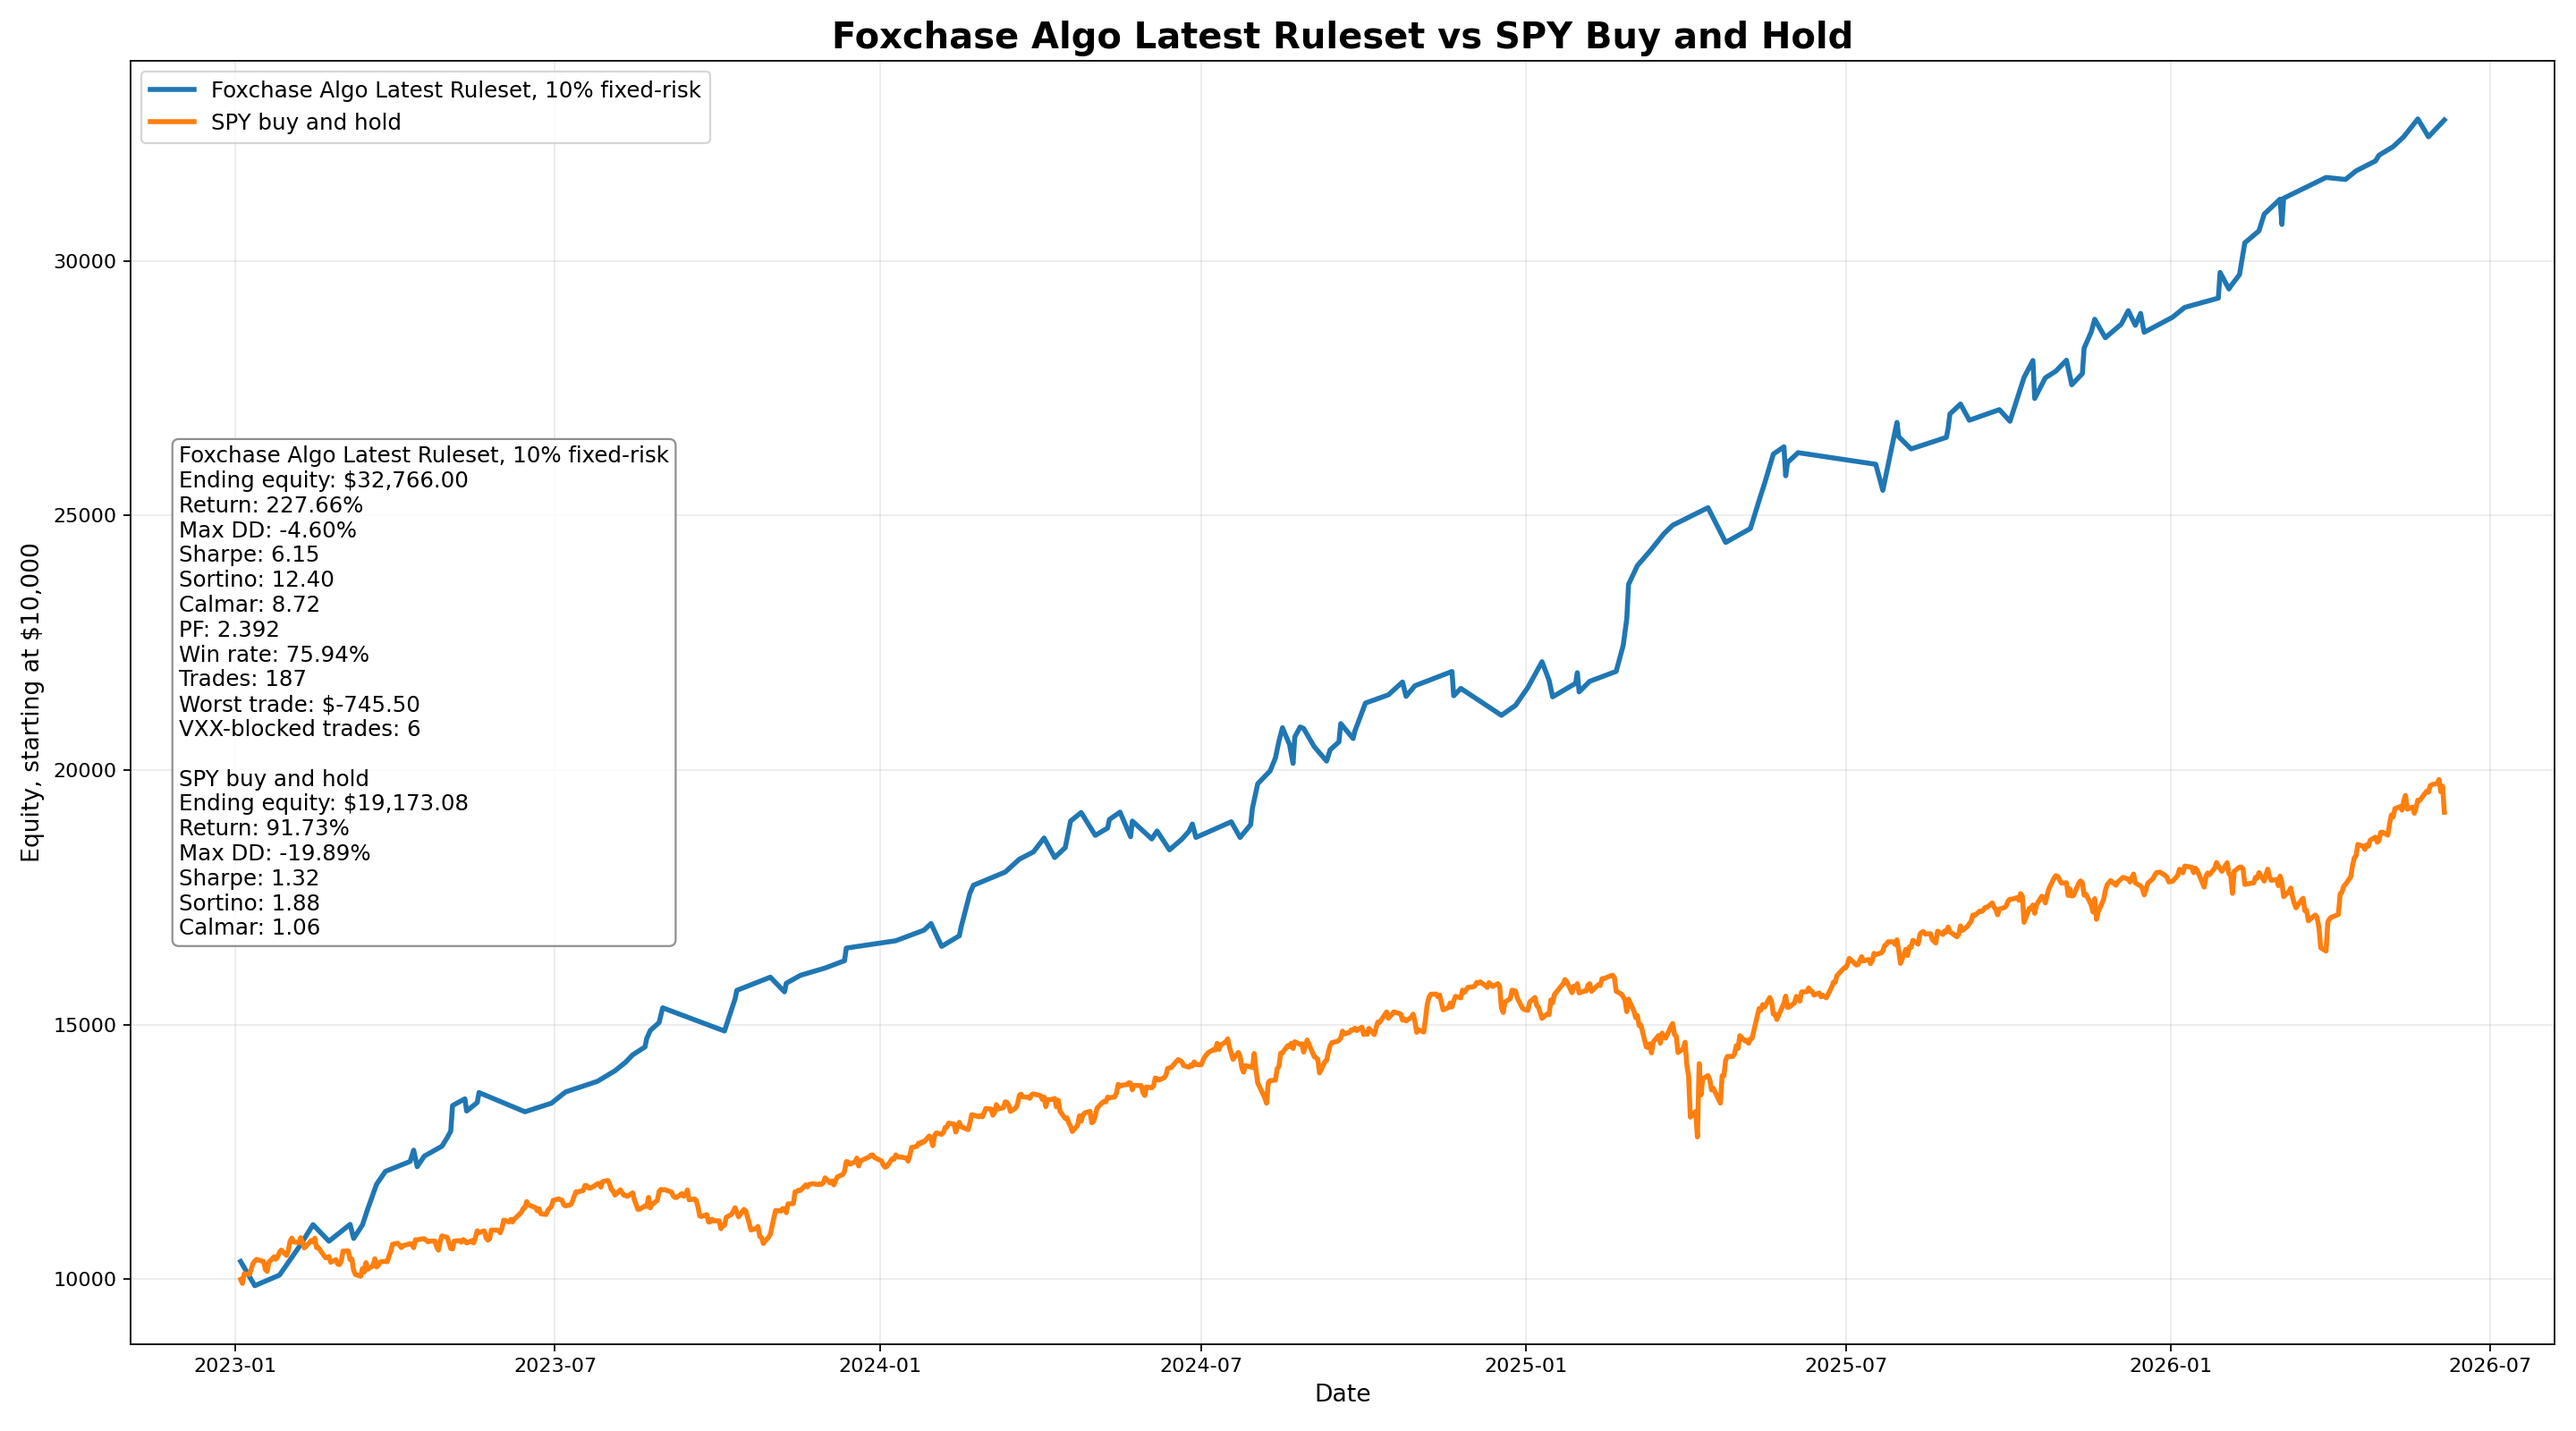
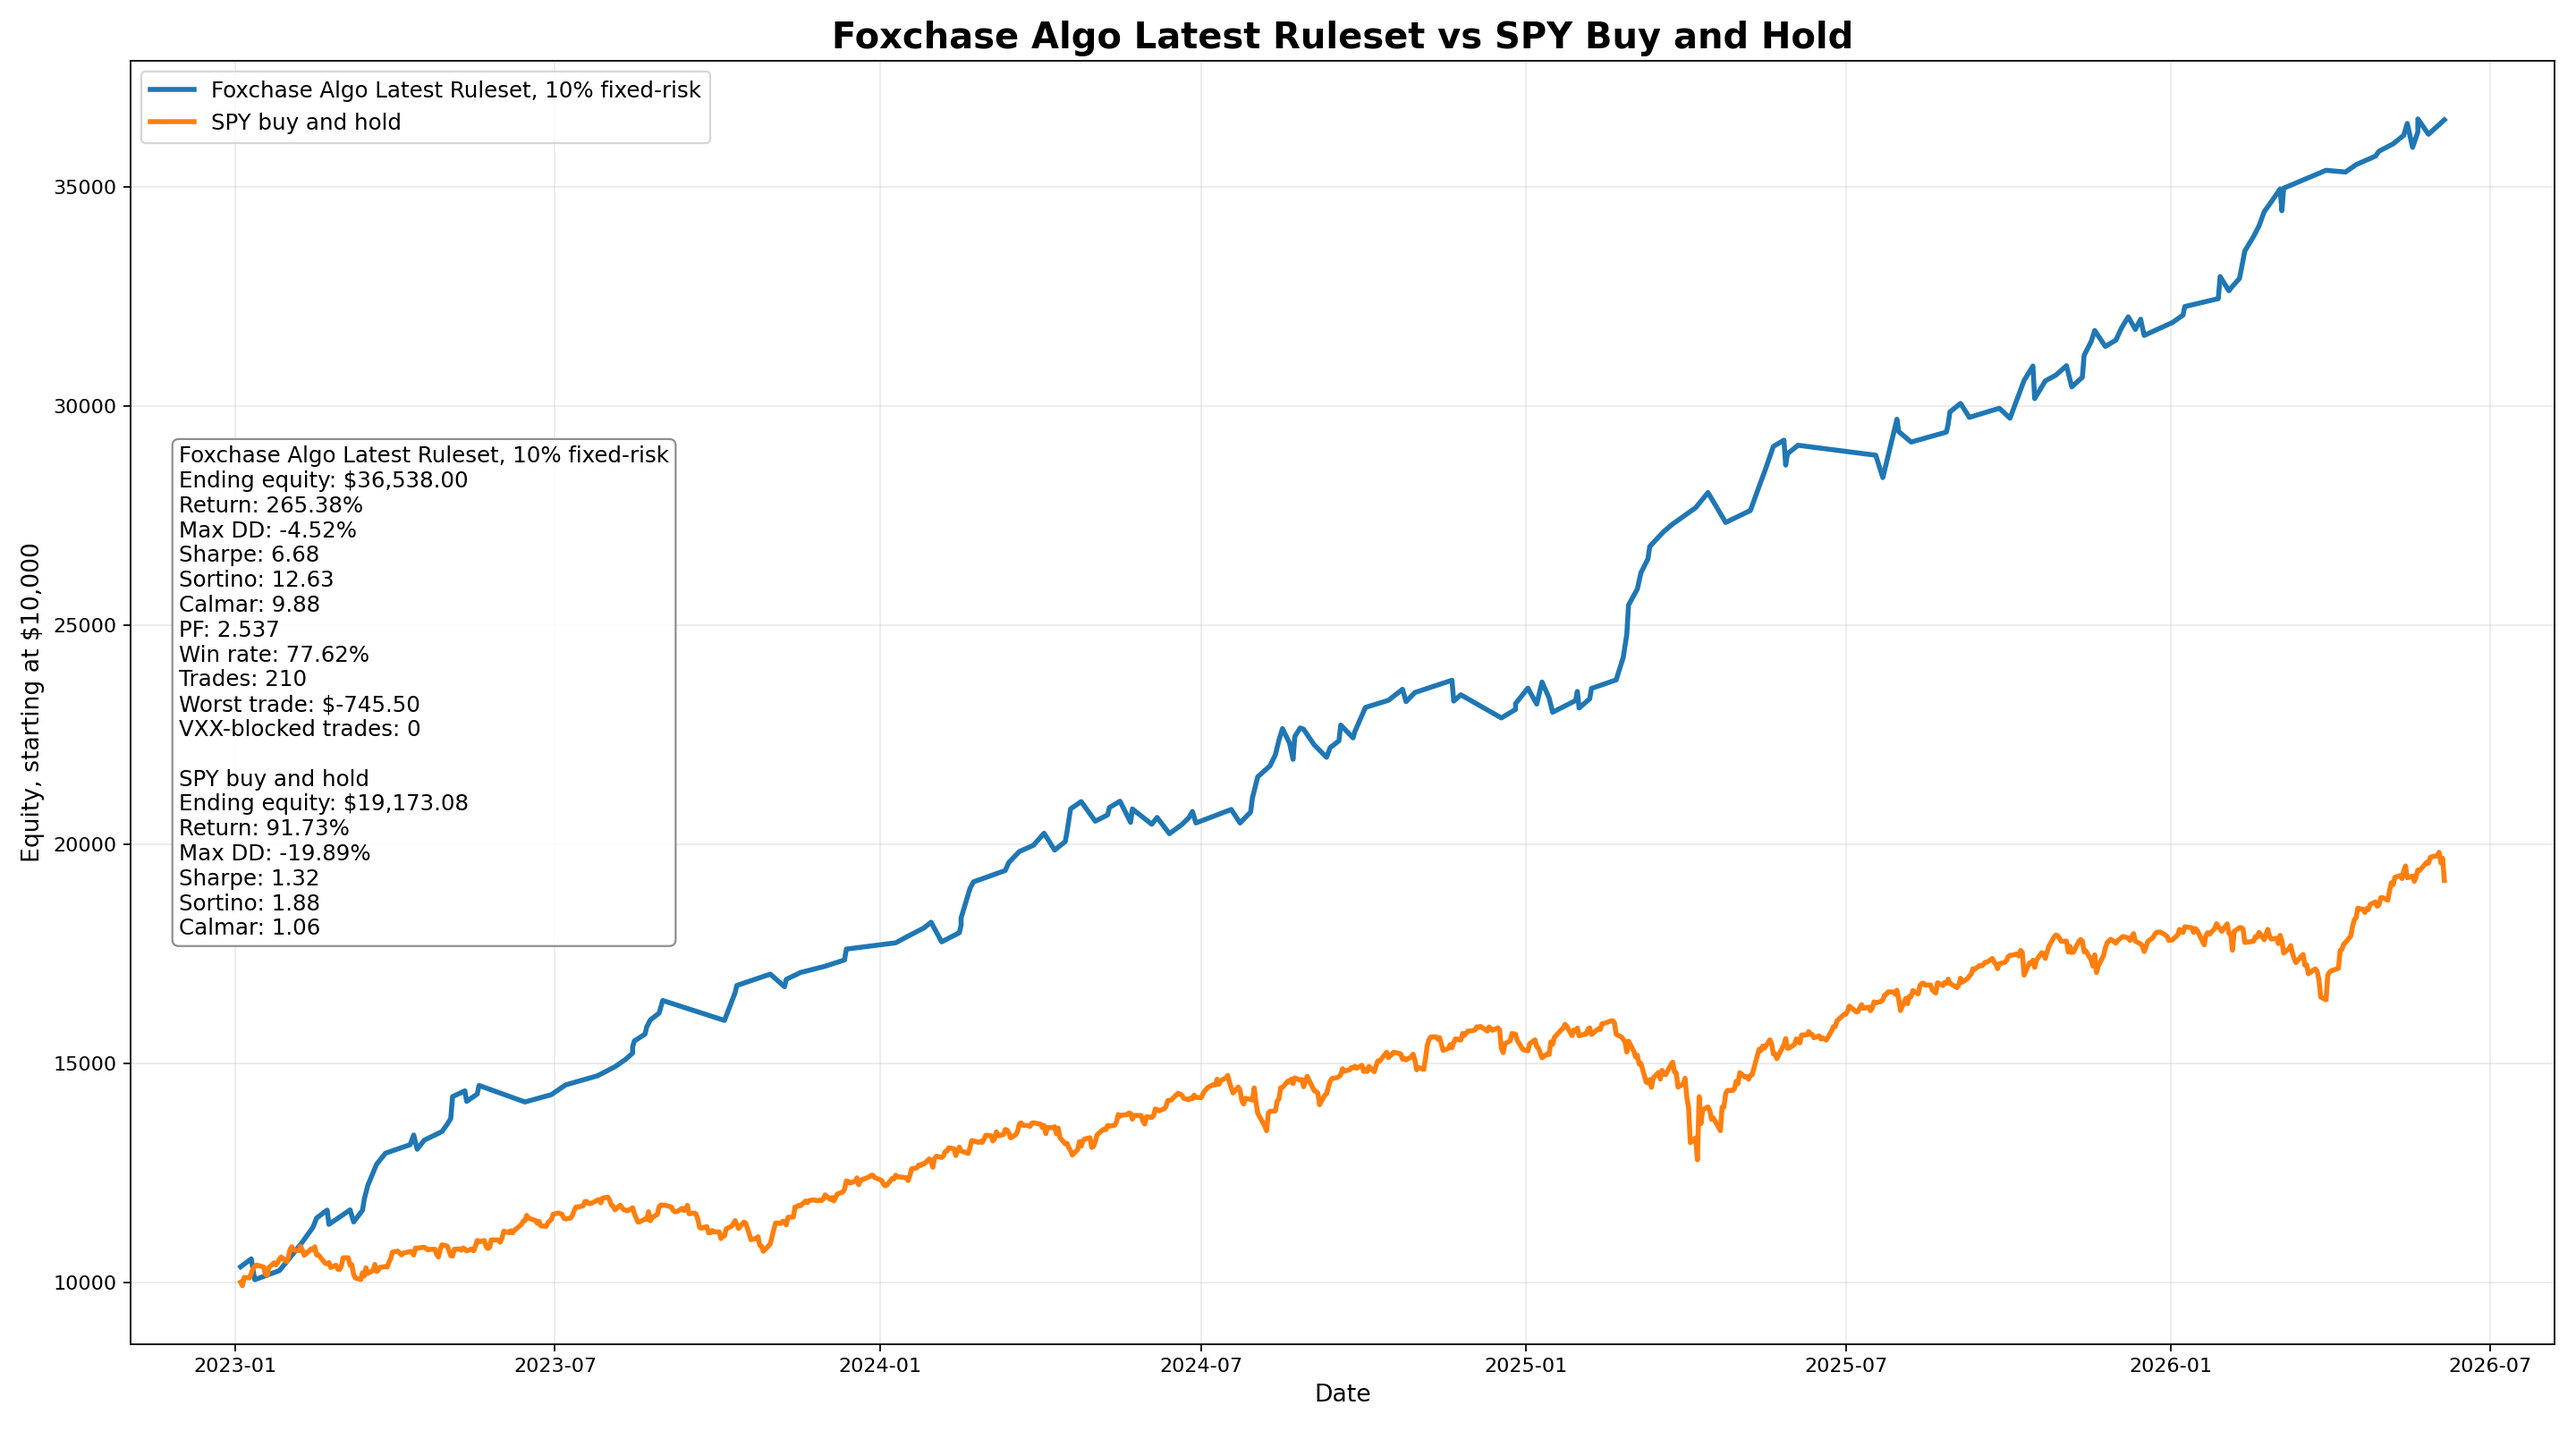
Regenerate native 210-trade research chart

diff --git a/algo-pnl.html b/algo-pnl.html
@@ -394,7 +394,7 @@ function setTextIfExists(id, value) {
 
     <div class="chart-box">
       <img
-        src="/images/foxchase_latest_algo_vs_spy.png"
+        src="/images/foxchase_latest_algo_vs_spy.png?v=20260717-native-210"
         alt="Foxchase native production research candidate versus SPY buy and hold"
         style="width:100%; height:auto; border-radius:8px;"
       >
